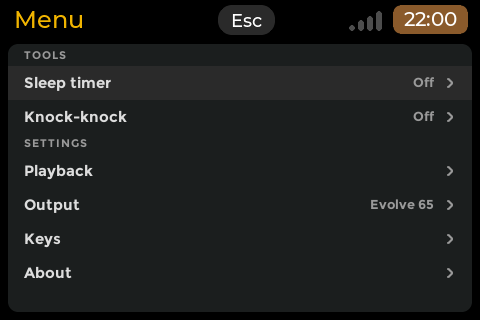
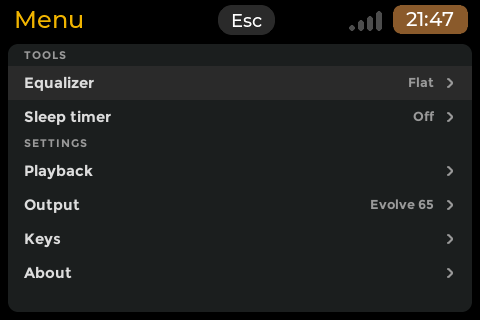
Vinyl 0.7.0: docs, root README row, Menu and Playback screenshots
Equalizer, one Transition setting (Normal, Gapless, Crossfade 5 / 10 / 20 sec), the Transition chip, Knock-knock's line of help, and Knock-knock's 1.5 s wait for the launcher (FZ-M1 tablet) in the 0.7.0 Changes. Network share work is not included.

Claude-Session: https://claude.ai/code/session_01DZirtJsMfHq7t5PFzh86rt

diff --git a/README.md b/README.md
@@ -43,7 +43,7 @@ Each app has its own page with the full description, keys, requirements, known l
 | [**RSS Reader**](apps/rss-reader/README.md) (`rss-reader`) | 0.2.1 | arm64, amd64 | A reader of RSS and Atom text feeds: pin your favorite news, tech and science feeds from a catalog of about 260 by country and topic, or add any site by its address, then read the articles full screen with their pictures, and save them to read offline, by touch or keyboard, on any screen from 640x480 up. Category Internet. |
 | [**Serial Console**](apps/serial-console/README.md) (`serial-console`) | 0.6.1 | arm64, amd64 | Finds your USB-serial adapters and boards, tells what is plugged in and what is behind it, recommends the settings, and talks to it. Category Tools. |
 | [**System Monitor**](apps/system-monitor/README.md) (`system-monitor`) | 0.3.1 | arm64, amd64 | A live look at the board or PC it runs on: CPU, temperature, memory, storage, network, processes, and the power supply or battery. Category Tools. |
-| [**Vinyl**](apps/vinyl/README.md) (`vinyl`) | 0.6.0 | arm64, amd64 | A music player for the music in `~/Music` and on USB drives (mounted on request, with Eject): a Library of artists, albums, songs and genres with search and the actions of a track, your own playlists (M3U8 files in `~/Music/Playlists`, with import and export), or folder by folder, gapless, shuffle, repeat, embedded cover art and resume where you stopped, with a record that slides out of its sleeve and turns while it plays. MP3, FLAC, Ogg Vorbis and Opus, WAV and AIFF, and through FFmpeg (installed with it) AAC, ALAC, WMA, APE and more. Plays on while you use other apps; wired outputs, and Bluetooth headsets and speakers on boards with a sound server; the volume of the playing output in steps fitted to it (down to 0.1 dB) and a gain boost for quiet outputs; Knock-knock, three taps on the cover switch the screen off while the music plays (launcher 0.10.4 or later); headset and keyboard play keys; drag the seek bar to a point. From 480x320 up: 480x320, 640x480, square, portrait (PDA mode) and two-pane layouts. Category Tools. |
+| [**Vinyl**](apps/vinyl/README.md) (`vinyl`) | 0.7.0 | arm64, amd64 | A music player for the music in `~/Music` and on USB drives (mounted on request, with Eject): a Library of artists, albums, songs and genres with search and the actions of a track, your own playlists (M3U8 files in `~/Music/Playlists`, with import and export), or folder by folder, gapless, shuffle, repeat, embedded cover art and resume where you stopped, with a record that slides out of its sleeve and turns while it plays. MP3, FLAC, Ogg Vorbis and Opus, WAV and AIFF, and through FFmpeg (installed with it) AAC, ALAC, WMA, APE and more. Plays on while you use other apps; wired outputs, and Bluetooth headsets and speakers on boards with a sound server; the volume of the playing output in steps fitted to it (down to 0.1 dB) and a gain boost for quiet outputs; a ten-band equalizer with presets; a Transition setting (Normal, Gapless or a crossfade of 5, 10 or 20 seconds); Knock-knock, three taps on the cover switch the screen off while the music plays (launcher 0.10.4 or later); headset and keyboard play keys; drag the seek bar to a point. From 480x320 up: 480x320, 640x480, square, portrait (PDA mode) and two-pane layouts. Category Tools. |
 | [**viz1090**](apps/viz1090/README.md) (`viz1090`) | 0.3.2 | arm64, amd64 | The real viz1090 ADS-B display, full screen on any supported screen, fed by an RTL-SDR dongle, with an intro screen, the app header (Esc) and a world map, upright on portrait screens (PDA mode). Needs the dongle and a launcher with full-screen app support. Category Radio. |
 | [**VHS**](apps/vhs/README.md) (`vhs`) | 0.1.1 | arm64, amd64 | A camcorder for USB cameras (UVC with MJPEG; made for the UGREEN FineCam, the Logitech C270 works too): the live picture of the whole frame, photos (Instant or Light) and movies with the camera's microphone (MJPEG with AAC in MKV, crash-safe, split at 4 GiB, with a self-timer and a blinking red dot until the first frame is written), a Scenes list with windowed playback and seek, and copy to a USB drive. Plays on while you use other apps. From 480x320 up, with its own layout on large square screens. Needs a USB camera; the Store installs `libturbojpeg` and FFmpeg's libraries with it. Category Tools. |
 

diff --git a/apps/vinyl/README.md b/apps/vinyl/README.md
@@ -4,7 +4,7 @@ A music player for CyberdeckZero Launcher boards: it plays the music in `~/Music
 from M3U playlists, with gapless playback, shuffle, repeat, embedded cover art, ReplayGain, a sleep timer and resume where
 you stopped (a long mix or audiobook keeps its own place). It plays on while you use other apps (on boards with
 multitasking), to wired outputs and, on boards with a sound server, to Bluetooth headsets and speakers; headset, speaker
-and keyboard play keys work. Version **0.7.0**, not published yet (a 10-band **Equalizer** with presets, and one **Transition** setting: Normal, Gapless or a Crossfade of 5, 10 or 20 seconds; 0.6.0 brought Knock-knock: three taps on the cover switch the screen off while the music plays; 0.5.0 brought a software Gain boost for quiet outputs and finer Volume steps; 0.4.0 brought playlists,
+and keyboard play keys work. Version **0.7.0**, published 2026-11-20 (a 10-band **Equalizer** with presets, and one **Transition** setting: Normal, Gapless or a Crossfade of 5, 10 or 20 seconds; 0.6.0 brought Knock-knock: three taps on the cover switch the screen off while the music plays; 0.5.0 brought a software Gain boost for quiet outputs and finer Volume steps; 0.4.0 brought playlists,
 M3U8 files in `~/Music/Playlists`; 0.3.0 brought the Library, a SQLite library kept up to date by a background scan, with
 Artists, Albums, Songs, Genres, Search, Track info and the actions of a row, and USB drives mounted on request; 0.2.0 the
 Menu with the sleep timer, the Playback settings, the keys and About).
@@ -385,13 +385,14 @@ Board protocol: [`tests/BOARD-TESTS.md`](tests/BOARD-TESTS.md).
 
 ## Changes
 
-- **0.7.0** (not published yet): phase P2d of report 060 (decisions D29, D30 and the owner's drag of 2026-11-13): the
+- **0.7.0** (published 2026-11-20): phase P2d of report 060 (decisions D29, D30 and the owner's drag of 2026-11-13): the
   **Equalizer** (ten bands, presets, Custom, Reset, On / Off; keys and a drag on the bars; one curve for every output; a
   boost raises its band and leaves the others at their level, the limiter takes the peaks: the first draft lowered the
   whole music by the boost) and the crossfade, made one **Transition** setting with Gapless after the owner's board test
   of 2026-11-20 (Normal, Gapless, Crossfade 5 / 10 / 20 sec; a crossfade on every change, inside an album too; same
   format only; Next and Previous at once; an older settings file is carried over); Knock-knock's row gets a grey line of help; `vinyl --bench-dsp` prints the cost of the EQ, the limiter and the crossfade;
   the next track is named after the one being decoded (a track change could have named the playing track as its own next).
+  Knock-knock: Vinyl waits up to 1.5 s for the launcher to switch the screen off (the Panasonic FZ-M1 tablet needs more than 200 ms).
 - **0.6.0** (published 2026-11-16): **Knock-knock** (owner request and decisions of 2026-11-16): Menu > Tools, directly under the Sleep timer, Off by
   default. Needs **launcher 0.10.4 or later** (the `screen` request) and a board with a backlight and a touch screen; hidden otherwise:
   three quick taps on the cover switch the screen off while the music plays on, three quick taps anywhere bring it back;

diff --git a/apps/vinyl/docs/decisions.md b/apps/vinyl/docs/decisions.md
@@ -1451,3 +1451,17 @@ ignored).
 
 **Tests.** `test_knock`: a fake launcher that answers 300 ms late reads "no service" with the old 200 ms and "done" with
 Vinyl's time; the whole path (three taps, the worker, the late "done") ends with the screen off and no `screen on`.
+
+## Vinyl 0.7.0 published (2026-11-20)
+
+Published as 0.7.0: the Equalizer, the Transition setting, the Transition chip on Now playing and Knock-knock's line of help.
+The owner's board tests passed: the Equalizer (B84-B86), the Transition (B88-B90), the chip and the line of help.
+
+- **Knock-knock**: Vinyl waits up to 1.5 s for the launcher to switch the screen off (the Panasonic FZ-M1 tablet needs more
+  than 200 ms; the owner's tablet journal showed `screen off: no service` then `screen on asked`, see the section above).
+- **Network shares are not in 0.7.0.** The share work (report 061 5.6: a share is no USB drive, bounded looks at it) was
+  built on the same branch but is held back by the owner's decision and ships later (planned 0.7.1, branch `vinyl-share-2`).
+  The 0.7.0 sources are the three drafts' commits without it; the tree equals the draft tree minus the share files.
+- **Packages**: vinyl_0.7.0 arm64 and amd64, built against the launcher at the v0.10.4 pin; the other apps keep the shared
+  pin. On a board that has a 0.7.0 draft installed, 0.7.0 is older to dpkg (`0.7.0-draft.N` sorts after `0.7.0`): install
+  it with `dpkg -i`, which allows the downgrade.
